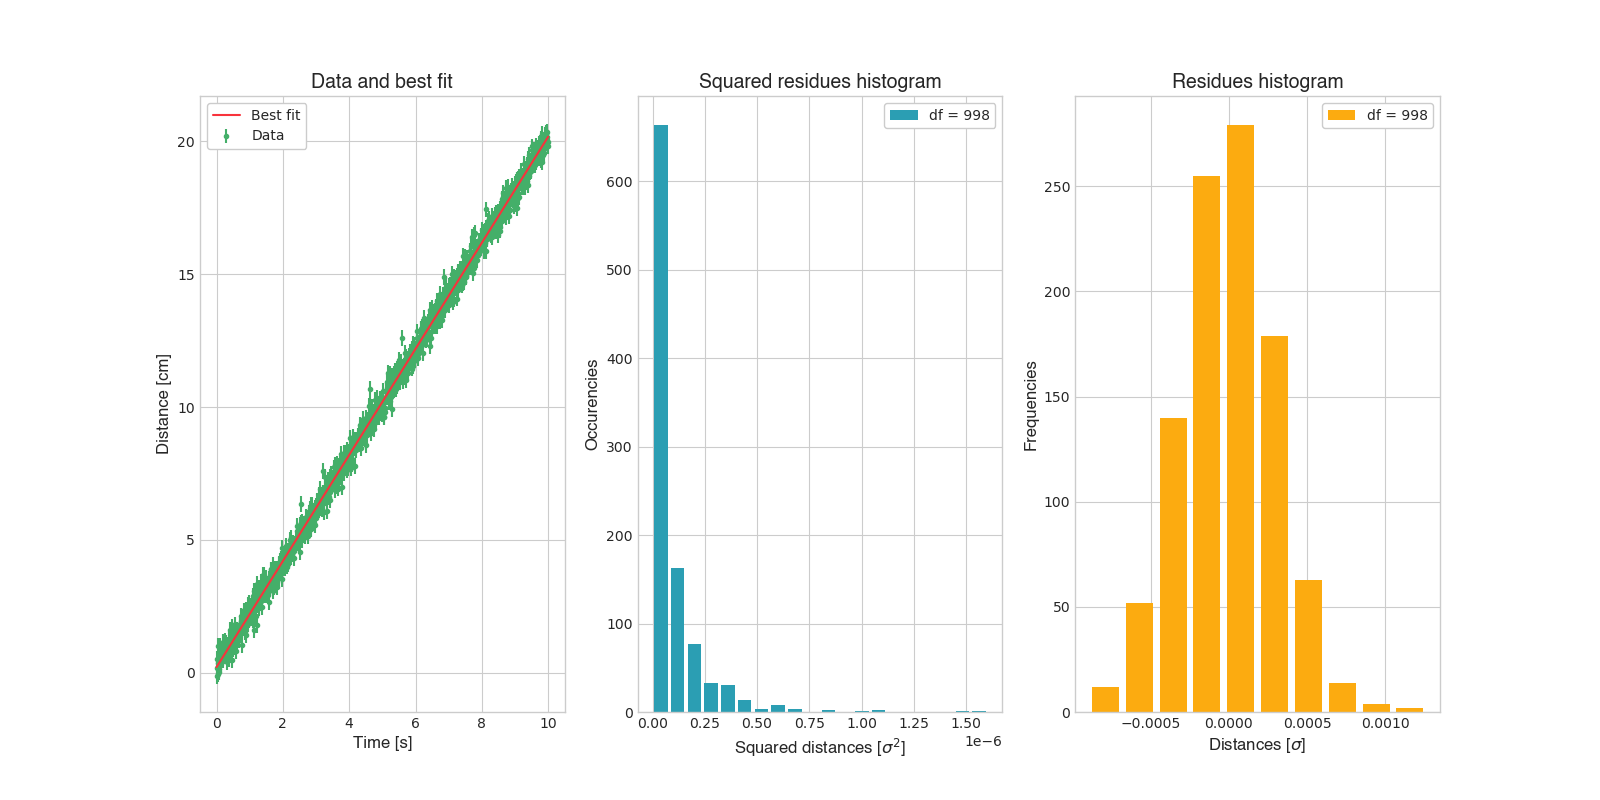
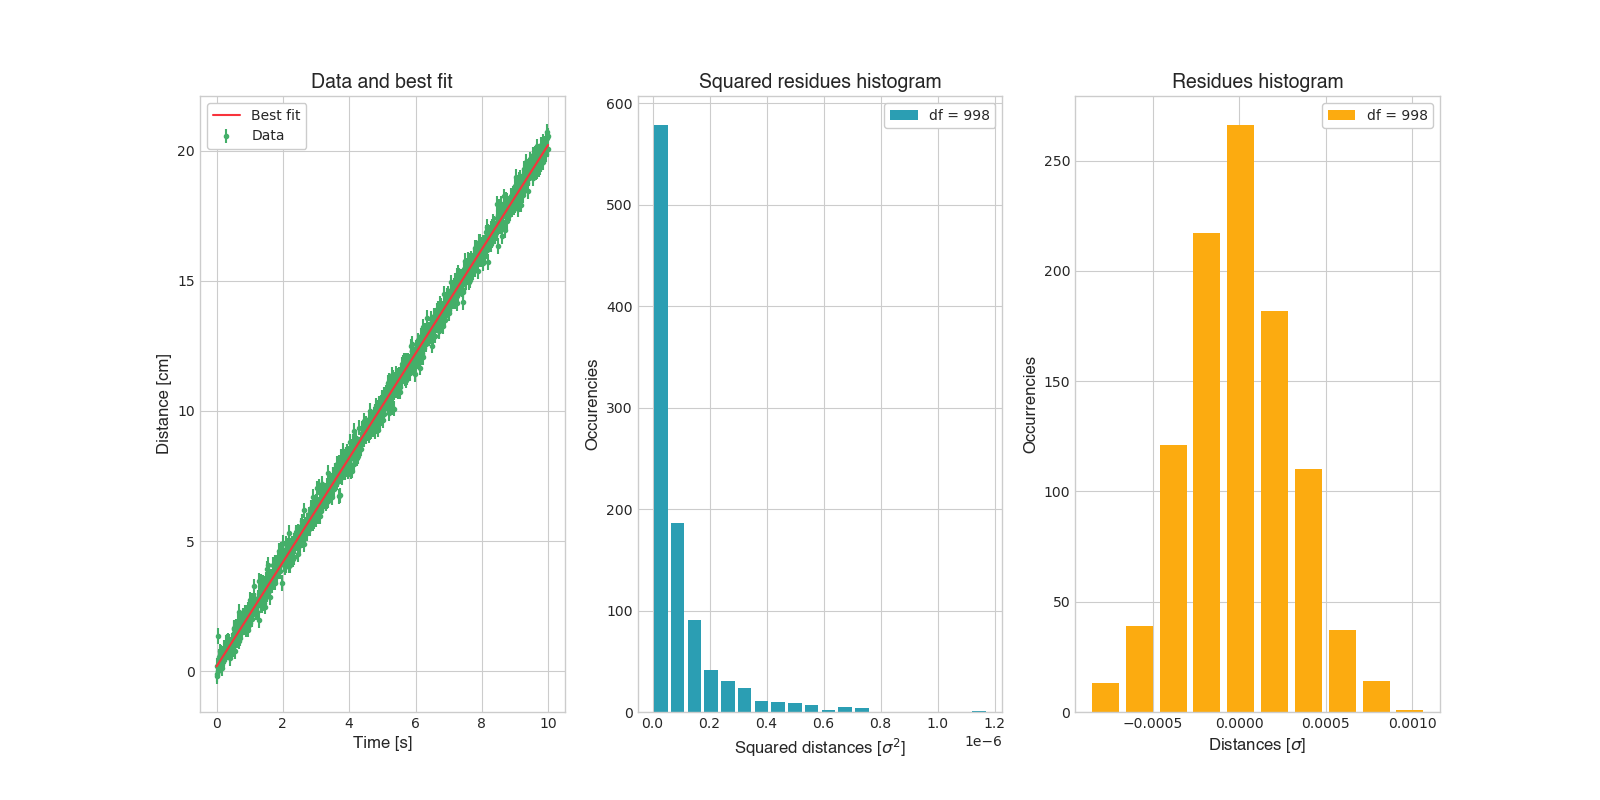
Updated showcase image and modified README accordingly.

diff --git a/Source/Examples/trimosaic.py b/Source/Examples/trimosaic.py
@@ -18,7 +18,7 @@ def main():
     PlotHistogram(EvalSquareResidues(y, LinearMap(x, *p), len(x) - 2), 'Squared residues histogram', 'Squared distances [$\\sigma^2$]', 'Occurencies', bins = 20, legend=f'df = {len(x) - 2}')
 
     ChangePlotIndex(2)
-    PlotHistogram(EvalResidues(y, LinearMap(x, *p), len(x) - 2), 'Residues histogram', 'Distances [$\\sigma$]', 'Frequencies', legend=f'df = {len(x) - 2}')
+    PlotHistogram(EvalResidues(y, LinearMap(x, *p), len(x) - 2), 'Residues histogram', 'Distances [$\\sigma$]', 'Occurrencies', legend=f'df = {len(x) - 2}')
 
     ShowPlot()
 
